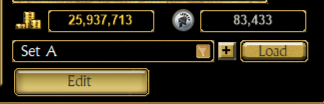
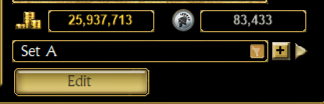
feat(loadouts): the Load button is the game's gold "next" arrow
Owner's choice: the Load text button (the attributes' Undo frame with a text)
becomes the gold arrow of the game's tutorial window,
InGameUI\tutorial\buttonnext{up,over,down,disable}01.tex, read through the UI
bitmap service like the [+] button.

Both picture buttons now go through one DrawIconButton (up, over, down, and the
disabled picture, or the up picture dimmed for [+] which has none) and share
one height (the bar's less a margin); the arrow keeps its 16:20 shape, about
0.8 of the [+] width. The arrow is grey when Load is not available (no loadout,
read-only character). The tool tip (LoadoutLoadTip) and the menu's Load entry
stay; the Load text and its color are gone with the text.

Checked headless at zoom 1 and 1.2 (125 % DPI) and at 96 dpi: the arrow is
aligned with [+] (same top and height), transparent around its shape, grey
without a loadout; the loadouts tool's load action still reaches the handler.
The documentation picture is retaken.

Changed region(s): [[0.5864, 0.375, 0.9568, 0.6058]]

diff --git a/src/TQVaultAE.GUI/Components/Character/LoadoutBar.cs b/src/TQVaultAE.GUI/Components/Character/LoadoutBar.cs
@@ -43,8 +43,8 @@ public sealed class LoadoutBarEventArgs(LoadoutBarAction action, string? name) :
 
 /// <summary>
 /// The loadouts of the shown character, under the gold of the statistics panel: a drop-down of their names in the gold
-/// box of the character window, the [+] button of the attributes to add one, and a Load button in the look of the
-/// attributes' Undo button. The right-click menu holds every action. Everything is drawn at the panel's scale.
+/// box of the character window, the [+] button of the attributes to add one, and the game's gold "next" arrow to load
+/// the chosen one. The right-click menu holds every action. Everything is drawn at the panel's scale.
 /// </summary>
 public sealed class LoadoutBar : Control
 {
@@ -54,10 +54,13 @@ public sealed class LoadoutBar : Control
 	private const string PlusUp = """InGameUI\CharacterScreen\StatIncrementButtonUp01.tex""";
 	private const string PlusOver = """InGameUI\CharacterScreen\StatIncrementButtonOver01.tex""";
 	private const string PlusDown = """InGameUI\CharacterScreen\StatIncrementButtonDown01.tex""";
-	private const string ButtonUp = """XPack\UI\Character\ButtonAttributeUndo01Up.tex""";
-	private const string ButtonOver = """XPack\UI\Character\ButtonAttributeUndo01Over.tex""";
-	private const string ButtonDown = """XPack\UI\Character\ButtonAttributeUndo01Down.tex""";
-	private const string ButtonDisabled = """XPack\UI\Character\ButtonAttributeUndo01Disable.tex""";
+	private const string LoadUp = """InGameUI\tutorial\buttonnextup01.tex""";
+	private const string LoadOver = """InGameUI\tutorial\buttonnextover01.tex""";
+	private const string LoadDown = """InGameUI\tutorial\buttonnextdown01.tex""";
+	private const string LoadDisabled = """InGameUI\tutorial\buttonnextdisable01.tex""";
+
+	/// <summary>Width over height of the "next" arrow pictures (16 x 20).</summary>
+	private const float LoadAspect = 16F / 20F;
 
 	/// <summary>Height of the bar at scale 1: the gold box of the character window.</summary>
 	public const int ReferenceHeight = 22;
@@ -66,7 +69,6 @@ public sealed class LoadoutBar : Control
 	private const int BoxCorner = 4;
 
 	private static readonly Color Grey = Color.FromArgb(190, 190, 190);
-	private static readonly Color Disabled = Color.FromArgb(110, 110, 110);
 
 	private readonly IUIService _uiService;
 	private readonly Bitmap _box = Images.CharacterNumberBox;
@@ -158,14 +160,17 @@ public sealed class LoadoutBar : Control
 
 	private int Gap => Math.Max(1, Convert.ToInt32(4 * this._scale));
 
-	/// <summary>The Load button, the attributes' Undo button stretched to the bar's height.</summary>
+	/// <summary>Height of the picture buttons ([+] and Load): the bar's height less a margin.</summary>
+	private int IconHeight => Math.Max(1, this.Height - Convert.ToInt32(4 * this._scale));
+
+	/// <summary>The Load button, the "next" arrow at the height of the [+] button, at the right end.</summary>
 	internal Rectangle LoadBounds
 	{
 		get
 		{
-			int height = this.Height;
-			int width = Convert.ToInt32(height * 59F / 19F);
-			return new Rectangle(this.Width - width, 0, width, height);
+			int height = this.IconHeight;
+			int width = Math.Max(1, Convert.ToInt32(height * LoadAspect));
+			return new Rectangle(this.Width - width, (this.Height - height) / 2, width, height);
 		}
 	}
 
@@ -174,7 +179,7 @@ public sealed class LoadoutBar : Control
 	{
 		get
 		{
-			int size = Math.Max(1, this.Height - Convert.ToInt32(4 * this._scale));
+			int size = this.IconHeight;
 			return new Rectangle(this.LoadBounds.Left - this.Gap - size, (this.Height - size) / 2, size, size);
 		}
 	}
@@ -341,15 +346,23 @@ public sealed class LoadoutBar : Control
 		TextRenderer.DrawText(g, text, font, textBounds, this.Selected is null ? Grey : Color.White
 			, TextFormatFlags.Left | TextFormatFlags.VerticalCenter | TextFormatFlags.EndEllipsis | TextFormatFlags.NoPrefix | TextFormatFlags.SingleLine);
 
-		bool canAdd = this.CanAct(LoadoutBarAction.Add);
-		this.DrawPicture(g, !canAdd ? PlusUp : this._pressed == Part.Add ? PlusDown : this._hovered == Part.Add ? PlusOver : PlusUp, this.AddBounds, !canAdd);
+		this.DrawIconButton(g, Part.Add, this.AddBounds, this.CanAct(LoadoutBarAction.Add), PlusUp, PlusOver, PlusDown);
+		this.DrawIconButton(g, Part.Load, this.LoadBounds, this.CanAct(LoadoutBarAction.Load), LoadUp, LoadOver, LoadDown, LoadDisabled);
+	}
 
-		bool canLoad = this.CanAct(LoadoutBarAction.Load);
-		var load = this.LoadBounds;
-		this.DrawPicture(g, !canLoad ? ButtonDisabled : this._pressed == Part.Load ? ButtonDown : this._hovered == Part.Load ? ButtonOver : ButtonUp, load);
-		// The text of the gold buttons, as on the Edit button.
-		TextRenderer.DrawText(g, Resources.LoadoutLoad, font, load, canLoad ? Theme.ButtonText : Disabled
-			, TextFormatFlags.HorizontalCenter | TextFormatFlags.VerticalCenter | TextFormatFlags.EndEllipsis | TextFormatFlags.NoPrefix | TextFormatFlags.SingleLine);
+	/// <summary>
+	/// One of the bar's picture buttons, with the game picture of its state: pressed, under the mouse, or up; when it
+	/// cannot be used, its disabled picture, or the up picture dimmed for a button that has none.
+	/// </summary>
+	private void DrawIconButton(Graphics g, Part part, Rectangle bounds, bool enabled, string up, string over, string down, string? disabled = null)
+	{
+		if (!enabled)
+		{
+			this.DrawPicture(g, disabled ?? up, bounds, greyed: disabled is null);
+			return;
+		}
+
+		this.DrawPicture(g, this._pressed == part ? down : this._hovered == part ? over : up, bounds);
 	}
 
 	/// <summary>The gold box of the character window, its corners kept and its edges stretched to the bounds.</summary>

diff --git a/documentation/LOADOUTS.md b/documentation/LOADOUTS.md
@@ -13,7 +13,8 @@ button of the character editor, when it shows, is on the line below):
 - The box lists the character's loadouts: click it to choose one.
 - **[+]** records the gear worn now as a new loadout. TQVault asks a name, as for **Duplicate Character**; two loadouts
   of a character cannot have the same name (case is ignored).
-- **Load** wears the loadout chosen in the box.
+- The gold arrow (**Load**) wears the loadout chosen in the box; it is grey when there is nothing to load or the
+  character is read-only.
 - A right click on the bar gives every action: **Load**, **Update with the gear worn now** (asks first), **Rename**,
   **Copy** (the same pieces under another name), **Delete** (asks first) and **Add**.
 
